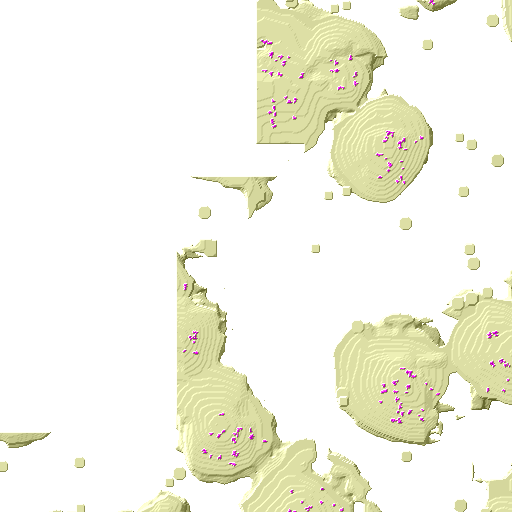
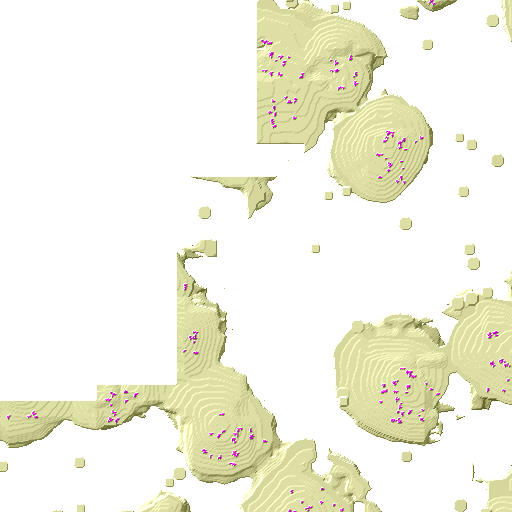
Thu Dec 29 21:15:06 JST 2016

Changed region(s): [[0.0, 0.75, 0.3438, 0.8438]]

diff --git a/tiles.html b/tiles.html
@@ -233,6 +233,16 @@
 	href="tile.1.-1.png"
 >&nbsp;</a><a
 	class="tile"
+	style="width: 512px; height: 512px; position: absolute; top: 3072; left: 0; background-image: url(tile.-9.0.png)"
+	title="Region -9, 0"
+	href="tile.-9.0.png"
+>&nbsp;</a><a
+	class="tile"
+	style="width: 512px; height: 512px; position: absolute; top: 3072; left: 512; background-image: url(tile.-8.0.png)"
+	title="Region -8, 0"
+	href="tile.-8.0.png"
+>&nbsp;</a><a
+	class="tile"
 	style="width: 512px; height: 512px; position: absolute; top: 3072; left: 1024; background-image: url(tile.-7.0.png)"
 	title="Region -7, 0"
 	href="tile.-7.0.png"
@@ -342,5 +352,5 @@
 	title="Region -3, 3"
 	href="tile.-3.3.png"
 >&nbsp;</a></div>
-<p class="notes">Page rendered at Thu Dec 29 13:24:25 JST 2016</p>
+<p class="notes">Page rendered at Thu Dec 29 21:15:05 JST 2016</p>
 </body></html>
